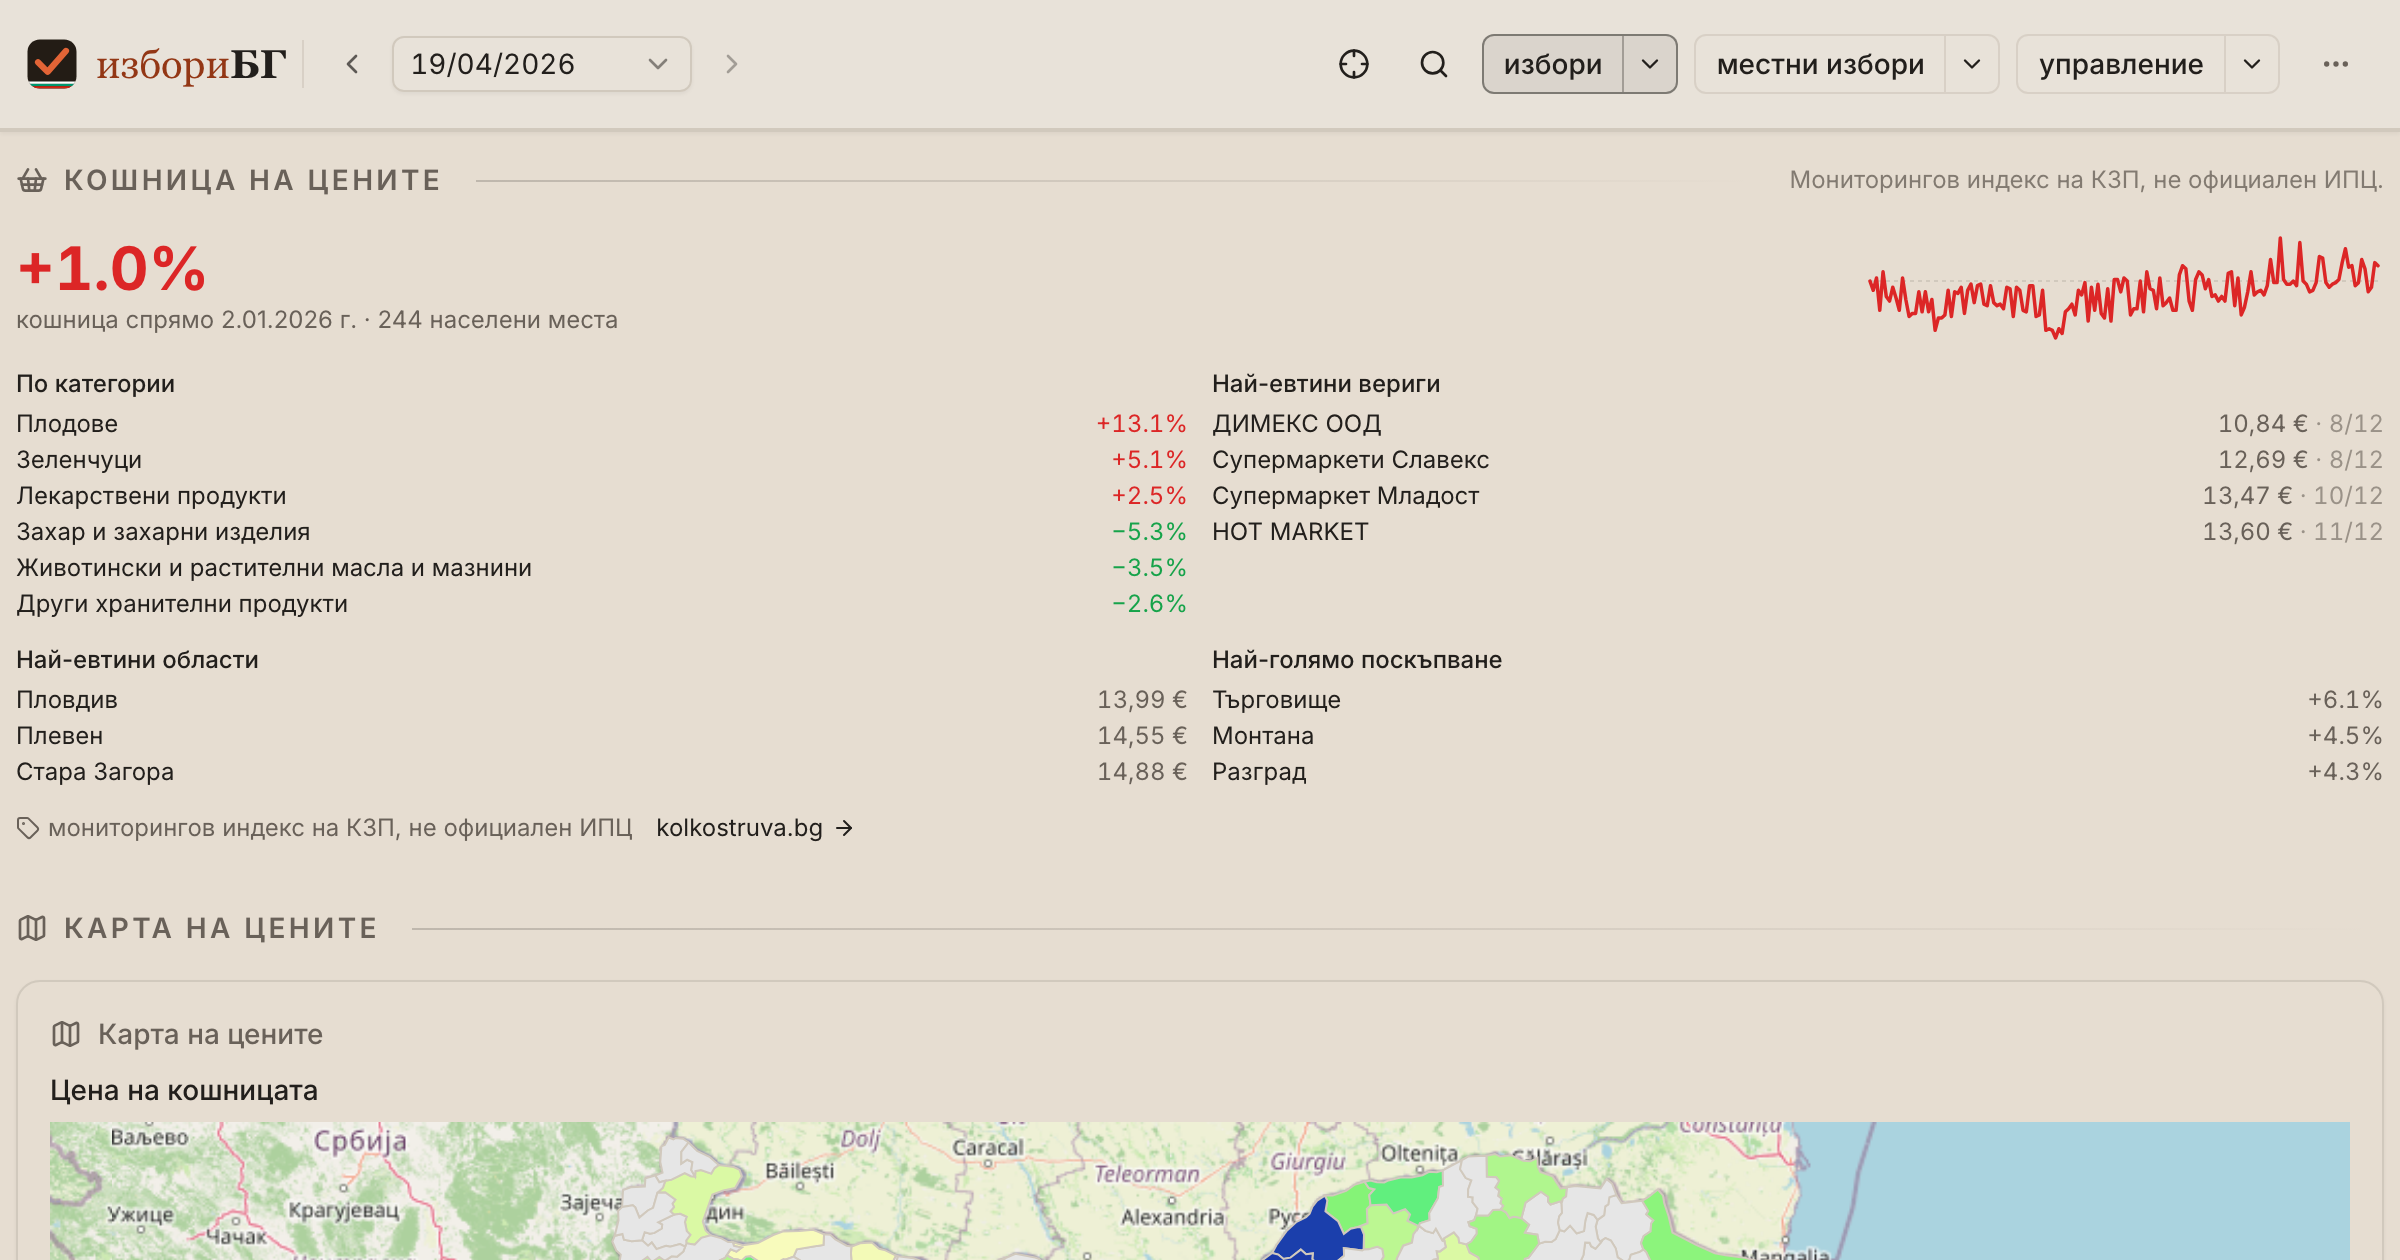
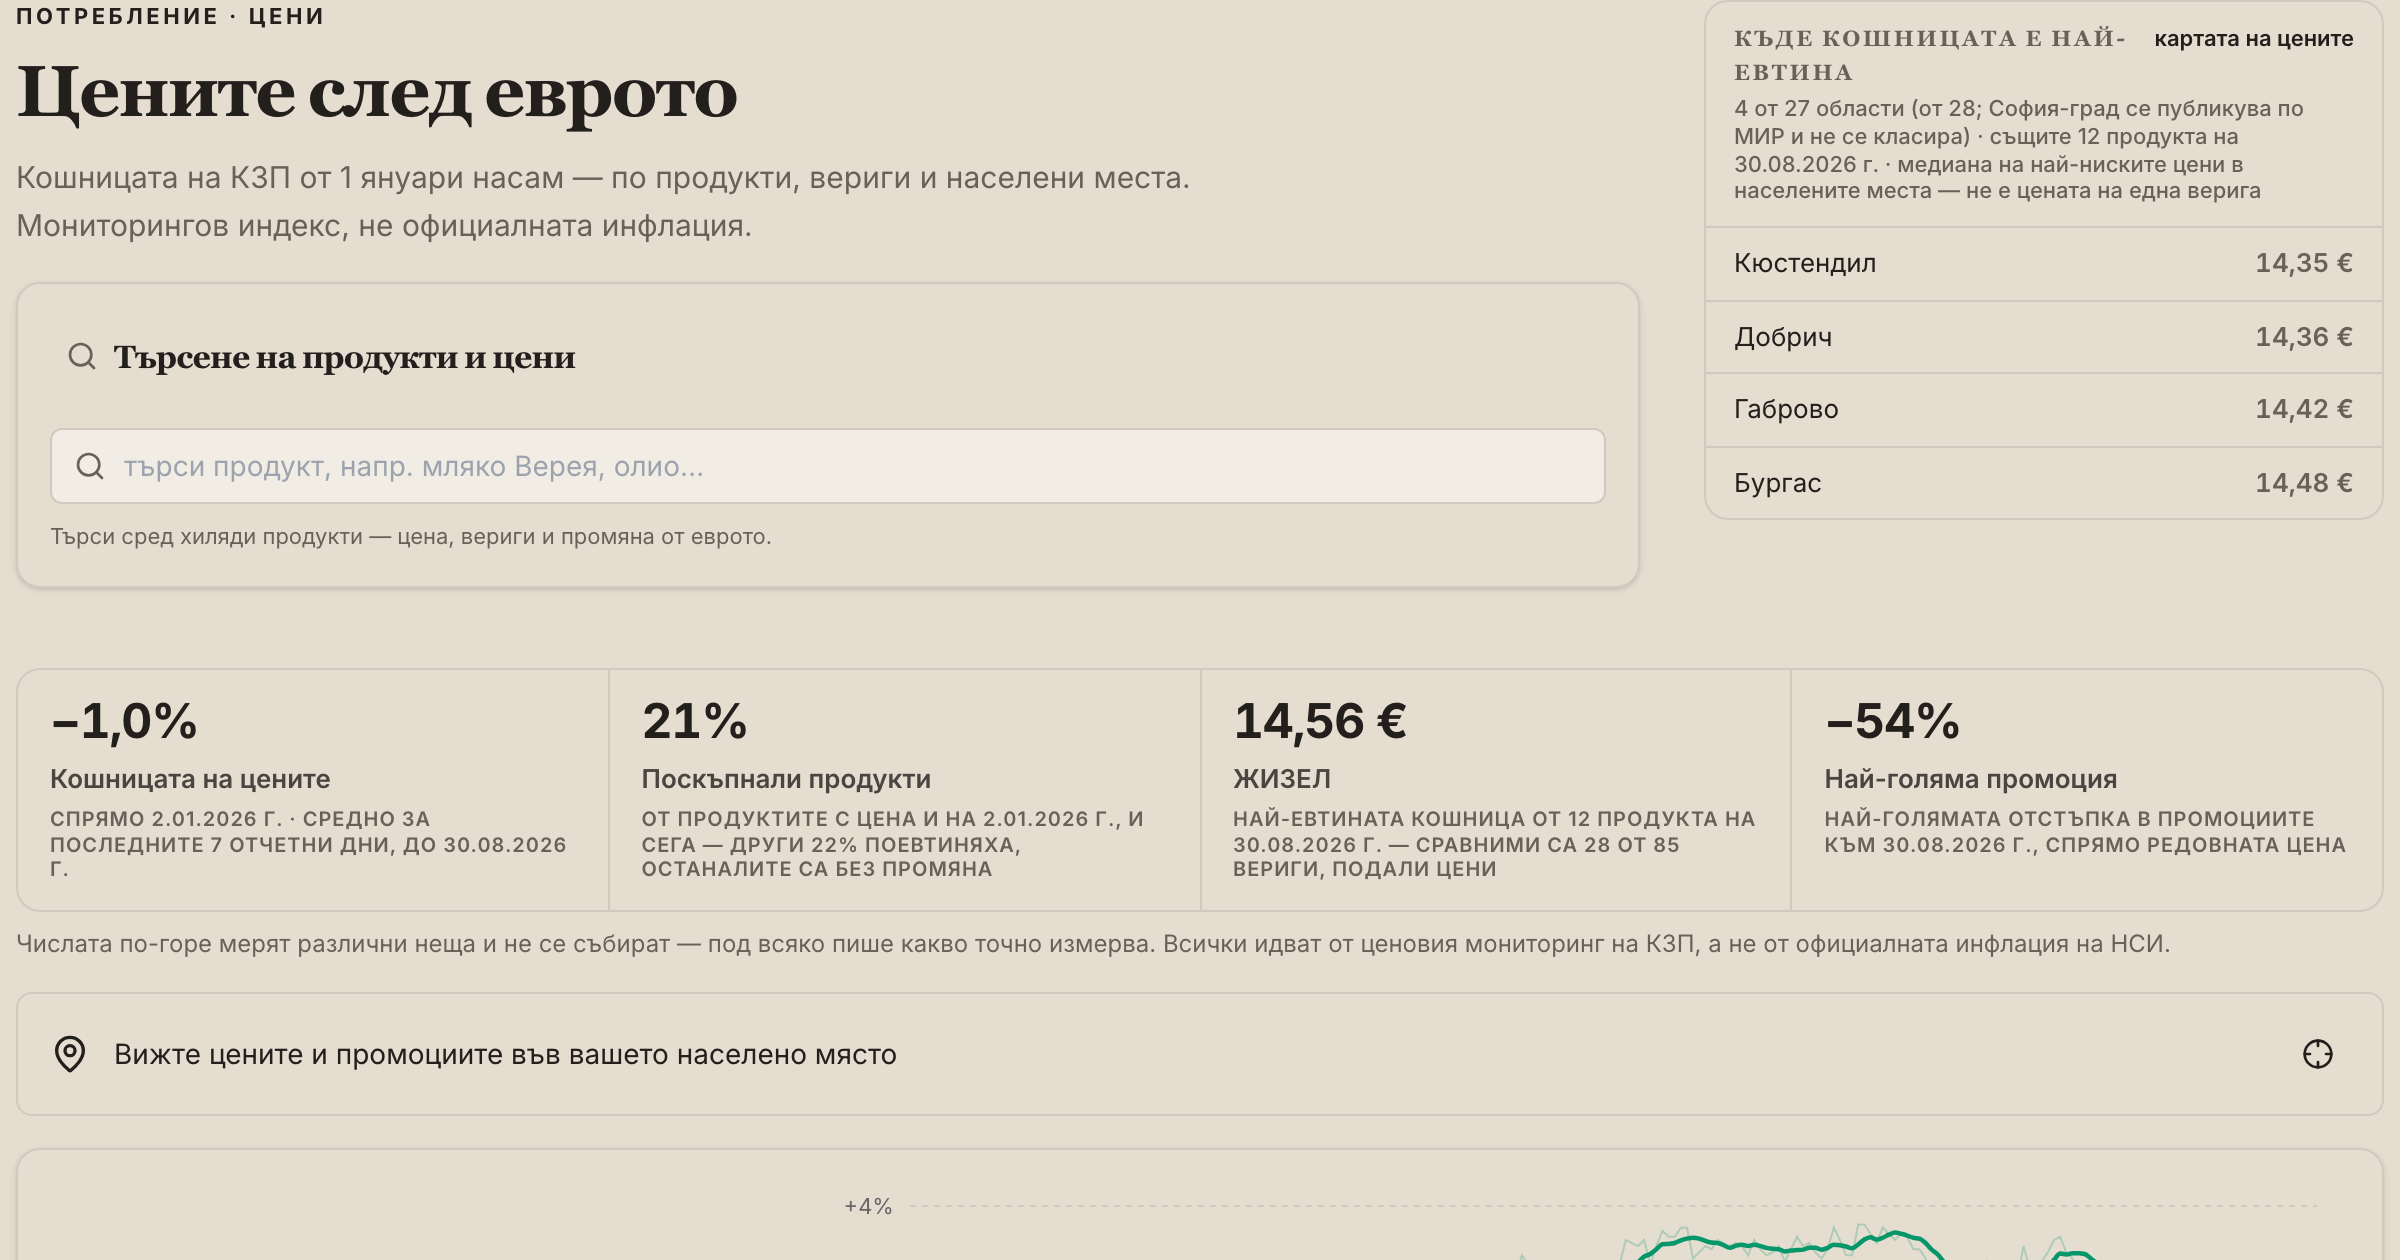
prices hub head, step 3: the share cards
/prices had no capture entry at all — its card came from a bespoke
scripts/og/screenshot_prices.ts that clipped a blind {0,0,1200,630} from the
page top, waited on an svg polyline the chart no longer renders, and scrolled a
#prices anchor that does not exist. That script is deleted; the page now has a
real entry anchored on the head, and the card leads with the h1, the deck, the
four-cell band with its four bases, the note and the rail.

The wait names every cell by destination, not two of them. These four are
guarded on four INDEPENDENT field groups — the basket window, the euro-verdict
pair, the chain denominators, and the DEALS payload's own build day — so a blob
short of any one arm still renders a band, and a shorter guard is satisfied by
it: the runner then overwrites a good card with a short one and reports success.

/prices/map gets its own card, and that is fallout from the re-anchor rather
than scope creep. The two pages SHARED /og/prices.png, and the old blind clip
happened to include the choropleth's upper third — so once the /prices card
framed the hub head, a page titled 'Карта на цените в България по общини' was
advertising an image with no map on it. Its wait is the choropleth's own
geometry, because the metric buttons and the source line render before
PriceChoropleth has a measured size to draw into.

FIGURES gains a prices entry with the NOT_YET removal. Dropping that entry is
[…]

diff --git a/scripts/og/capture-screens.ts b/scripts/og/capture-screens.ts
@@ -908,6 +908,54 @@ const captures: Capture[] = [
     extraCss: "[data-community-banner]{display:none!important;}",
   },
   {
+    slug: "prices",
+    routePath: "prices",
+    // ⚠ MIGRATED OFF `scripts/og/screenshot_prices.ts` (§5.3), 2026-08-31 — and unlike the
+    // `governance-sectors` / `indicators` / `analysis-hub` re-anchors, this one could not be
+    // paid by a re-shoot: /prices had no entry here at all. Its card came from a bespoke
+    // script that clipped a blind {0,0,1200,630} from the page top, waited on an `svg
+    // polyline` the chart no longer renders, and scrolled a `#prices` anchor that does not
+    // exist. That script is deleted; this is the whole of the card now.
+    //
+    // ⚠ THE WAIT NAMES EVERY CELL, for the reason the /consumption entry below states at
+    // length and which is sharper here: these four cells are guarded on four INDEPENDENT
+    // field groups — the basket window, the euro-verdict pair, the chain denominators and
+    // the DEALS payload's own build day — and each is withheld rather than captioned
+    // vaguely when its own fields are missing. A blob short of any one arm still renders a
+    // band, so a guard naming two cells is satisfied by a short one and the runner
+    // overwrites a good card with it, reporting success.
+    //
+    // One arm per destination. The chain cell's href is per-EIK, so it is matched by prefix.
+    // The aside needs its own proof of presence: it is REFUSED outright when the ranking
+    // cannot fill it, and it comes from a different payload than the band.
+    waitFor:
+      '[data-hub-head]:has(a[href^="/consumption/categories"])' +
+      ':has(a[href^="/consumption/products"]):has(a[href^="/consumption/chain/"])' +
+      ':has(a[href^="/consumption/deals"]):has(aside a[href^="/consumption/region/"])' +
+      " [data-kpi-cell]",
+    anchor: "[data-hub-head]",
+    viewport: OG_CLIP_VIEWPORT,
+    settleMs: 3000,
+  },
+  {
+    slug: "prices-map",
+    routePath: "prices/map",
+    // ⚠ ITS OWN CARD SINCE 2026-09-01, and the reason is a side effect of re-anchoring
+    // /prices. The two pages SHARED `/og/prices.png`: the old bespoke script clipped a blind
+    // {0,0,1200,630} from the /prices page top, which happened to include the choropleth's
+    // upper third, so the map page's share image showed a map by accident. Anchoring the
+    // /prices card on its hub head — correct for /prices — left this page, whose <title> is
+    // „Карта на цените в България по общини", advertising a card with no map on it.
+    //
+    // ⚠ THE WAIT IS THE CHOROPLETH'S OWN GEOMETRY, not the card that frames it. The metric
+    // buttons and the source line render before the shapes do — `PriceChoropleth` needs a
+    // MEASURED size before it draws anything — so waiting on the Card would shoot an empty
+    // box the width of the page.
+    waitFor: '[data-og="prices-map"] svg path',
+    anchor: '[data-og="prices-map"]',
+    settleMs: 3000,
+  },
+  {
     slug: "consumption",
     // No `?elections=` — the head reads only the prices blob, and the frame no longer
     // contains anything the election context feeds.

diff --git a/scripts/prerender/ogAndSitemapCoverage.test.ts b/scripts/prerender/ogAndSitemapCoverage.test.ts
@@ -1030,19 +1030,11 @@ describe("a hub's og capture anchors on its head", () => {
   /** Hubs whose card does not yet frame the head, with the reason. A real debt, named so the
    *  list shrinks rather than the rule. */
   const NOT_YET: Record<string, string> = {
-    // ⚠ NOT THE `governance-sectors` SHAPE — this one cannot be paid by re-anchoring,
-    // because `/og/prices.png` is not produced by capture-screens.ts at all. It has its own
-    // bespoke script (scripts/og/screenshot_prices.ts) and therefore no entry here, which is
-    // why registering the screen surfaced „no capture entry" rather than a wrong anchor.
-    // Paying it means giving /prices a real entry anchored on `[data-hub-head]` and retiring
-    // the bespoke script — a step of its own, not a re-shoot.
-    // ⚠ AND THE CARD ON DISK IS STALE, which this entry also suppresses. `NOT_YET` skips the
-    // FRESHNESS clause too, and `/og/prices.png` dates from 2026-06-09 while
-    // `screenshot_prices.ts` clips {0,0,1200,630} — exactly the page top this change
-    // rewrote. So the share card depicts a head that does not exist, and nothing in the
-    // suite will say so until this entry goes.
-    prices:
-      "the card comes from the bespoke scripts/og/screenshot_prices.ts, so there is no capture entry to anchor — migrate it to capture-screens.ts; the committed card also predates the head",
+    // ⚠ PAID OFF 2026-08-31, and it was the one shape a re-shoot could NOT fix: /prices had
+    // no capture entry at all, because its card came from a bespoke
+    // `scripts/og/screenshot_prices.ts` that clipped a blind {0,0,1200,630} from the page
+    // top. It now has a real entry anchored on `[data-hub-head]`, and that script is deleted.
+    //
     // ⚠ PAID OFF 2026-08-27, within the same run that booked them — `analysis-hub` and
     // `reports-hub` were re-anchored on `[data-hub-head]` and re-shot, the
     // `governance-sectors` / `indicators` treatment. Both were the cheap kind: the card was
@@ -1249,6 +1241,11 @@ describe("a hub's og capture anchors on its head", () => {
       budget: "src/screens/budget/budgetHubFigures.ts",
       funds: "src/screens/funds/fundsHubFigures.ts",
       consumption: "src/screens/consumption/consumptionHubFigures.ts",
+      // ⚠ ADDED WITH THE `NOT_YET` REMOVAL, and it has to be: dropping that entry is what
+      // puts /prices under the freshness clause for the first time, and without this the
+      // clause watches the SCREEN while every value, every basis, the note and every rail
+      // row live in the figures module beside it.
+      prices: "src/screens/prices/pricesHubFigures.ts",
       subsidies: "src/screens/subsidies/subsidiesHubFigures.ts",
       "culture-hub": "src/screens/culture/cultureHubFigures.ts",
       indicators: "src/screens/indicators/indicatorsHubFigures.ts",

diff --git a/scripts/prerender/routes.ts b/scripts/prerender/routes.ts
@@ -2100,7 +2100,7 @@ export const prerenderRoutes: PrerenderRoute[] = [
     description:
       "Карта на потребителската кошница по общини — цена на кошницата, промяна от въвеждането на еврото и коя търговска верига е най-евтина във всяка община. Мониторингов индекс на КЗП, не официален ИПЦ.",
     breadcrumbName: "Карта на цените",
-    ogImage: "/og/prices.png",
+    ogImage: "/og/prices-map.png",
     bodyHtml: `
 <h1>Карта на цените в България по общини</h1>
 <p>Картата оцветява всяка община по цената на потребителската кошница, по промяната от въвеждането на еврото на 1 януари 2026 г., и показва коя търговска верига предлага най-евтината кошница във всяка община. По данни на ежедневния портал на КЗП „Колко струва".</p>

diff --git a/src/screens/PricesMapScreen.tsx b/src/screens/PricesMapScreen.tsx
@@ -64,7 +64,13 @@ export const PricesMapScreen: FC = () => {
       />
       <Title description={description}>{title}</Title>
 
-      <Card className="my-4 p-4">
+      {/* ⚠ A CAPTURE ANCHOR. This page shared `/og/prices.png` with /prices, whose card used
+          to be a blind clip of the page top and happened to include the choropleth's upper
+          third; once that card was re-anchored on the hub head, this page's share image
+          stopped containing a map at all — while its own <title> is „Карта на цените в
+          България по общини". A page whose card depicts a different page is the defect §5.3
+          exists for, so this card is shot from here. */}
+      <Card data-og="prices-map" className="my-4 p-4">
         <div className="mb-3 flex flex-wrap gap-1.5">
           {metrics.map((m) => (
             <button
